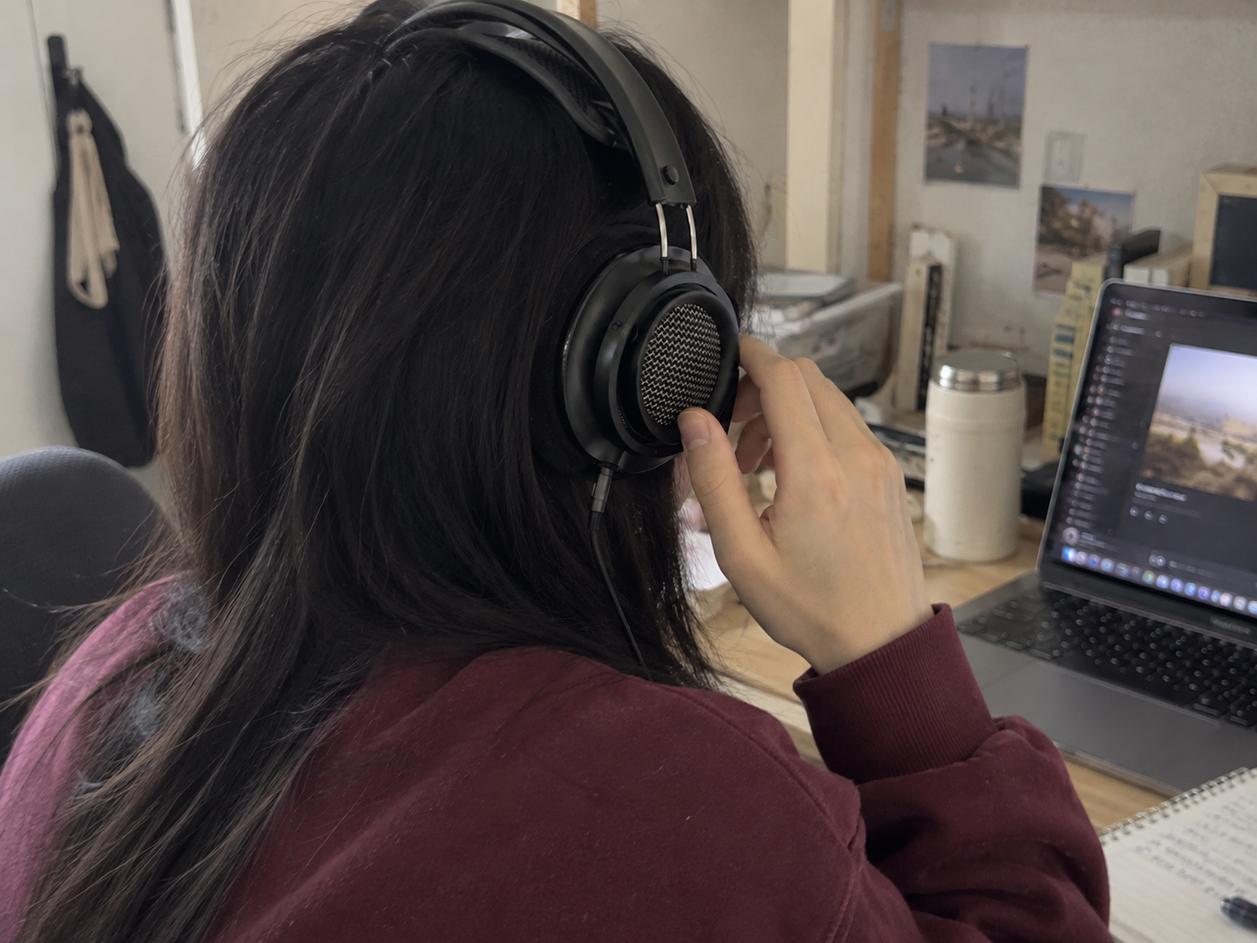
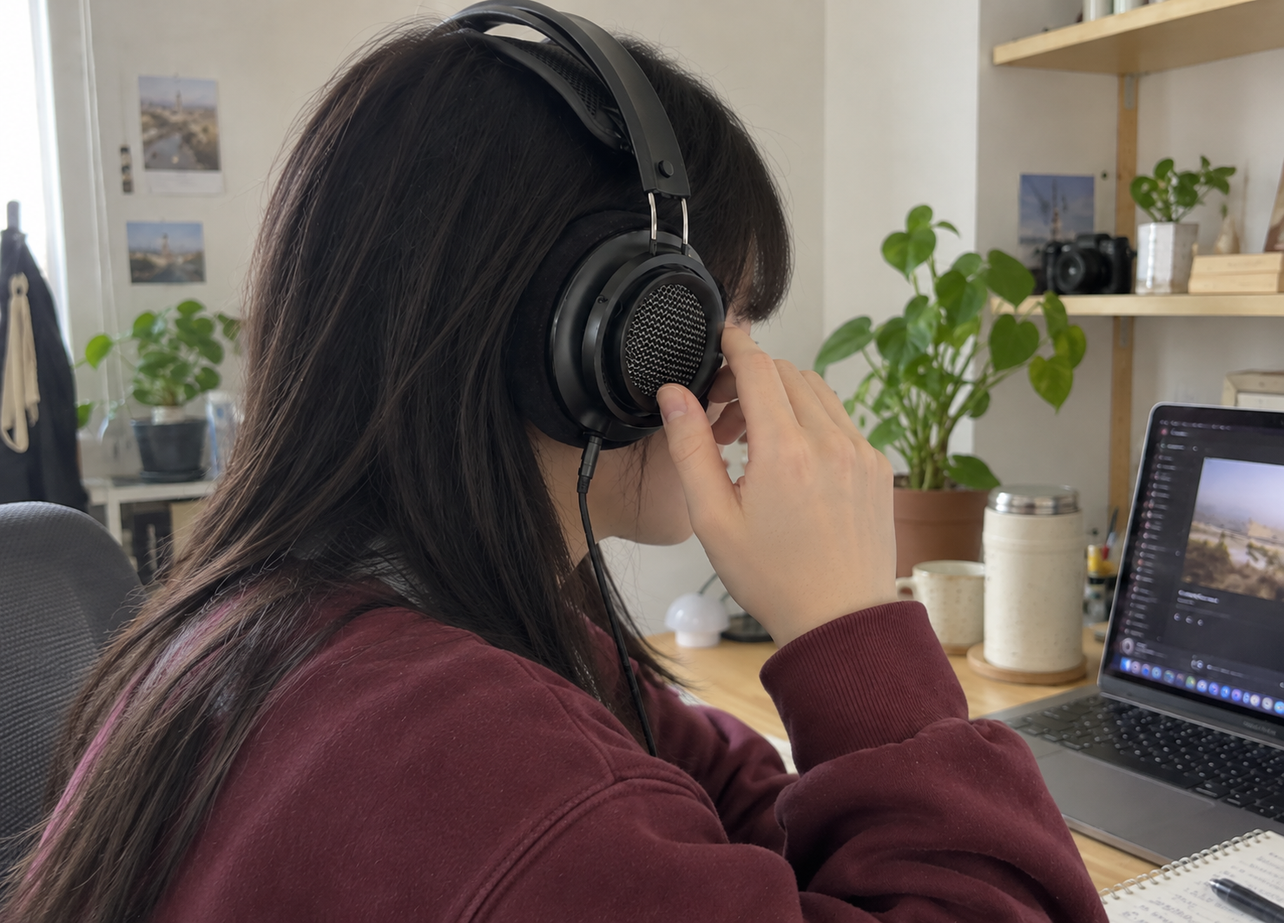
Allow natural faces in product-use photos and clarify image preferences

diff --git a/blog-drafts/shopping-connect-30/AI사용사진모아보기.html b/blog-drafts/shopping-connect-30/AI사용사진모아보기.html
@@ -1,1 +1,1 @@
-<!doctype html><html lang="ko"><meta charset="utf-8"><meta name="viewport" content="width=device-width,initial-scale=1"><title>AI 사용 사진 30장 모아보기</title><style>body{font-family:Malgun Gothic,sans-serif;background:#f6f5f1;color:#253c32;margin:24px}header{max-width:1200px;margin:auto}main{max-width:1200px;margin:24px auto;display:grid;grid-template-columns:repeat(auto-fit,minmax(290px,1fr));gap:20px}article{background:white;padding:14px;border-radius:12px}img{width:100%;aspect-ratio:4/3;object-fit:contain;background:#eee}h2{font-size:15px;line-height:1.5}p{font-size:12px;color:#66756c}a{color:#265845}</style><header><h1>AI 사용 사진 30장</h1><p>2026.10.07 최종 교정 · 손·제품 중심 / 서로 다른 옷 / 일상 스냅 질감</p><p>모두 AI로 제작한 가상의 사용 장면이며 실제 촬영·사용 후기 사진이 아닙니다. 사진을 누르면 원본 크기로 볼 수 있어요.</p><a href="원고검토.html">사진 포함 원고 검토 화면으로</a></header><main><article><a href="photos/01-usage-ai.png" target="_blank"><img src="photos/01-usage-ai.png" alt="01번 AI 사용 장면"></a><h2>01. 에어팟 5 무선충전 모델, 오픈형에 노이즈캔슬링까지 챙기고 싶다면</h2><p>AI로 제작한 사용 장면 예시</p><a href="photos/01-usage-ai.png" download>사진 저장</a> · <a href="원고검토.html#1">원고 보기</a></article><article><a href="photos/02-usage-ai.png" target="_blank"><img src="photos/02-usage-ai.png" alt="02번 AI 사용 장면"></a><h2>02. 화려한우 투뿔 한우 선물세트, 부모님 생신에 같이 구워 먹을 선물</h2><p>AI로 제작한 사용 장면 예시</p><a href="photos/02-usage-ai.png" download>사진 저장</a> · <a href="원고검토.html#2">원고 보기</a></article><article><a href="photos/03-usage-ai.png" target="_blank"><img src="photos/03-usage-ai.png" alt="03번 AI 사용 장면"></a><h2>03. 엄마네한우 투뿔 선물세트, 가족 모이는 날 구이 부위 고르기</h2><p>AI로 제작한 사용 장면 예시</p><a href="photos/03-usage-ai.png" download>사진 저장</a> · <a href="원고검토.html#3">원고 보기</a></article><article><a href="photos/04-usage-ai.png" target="_blank"><img src="photos/04-usage-ai.png" alt="04번 AI 사용 장면"></a><h2>04. 바이탈플랜트 롤팬 NEW 오리지널, 볶음요리 계속 젓는 게 번거롭다면</h2><p>AI로 제작한 사용 장면 예시</p><a href="photos/04-usage-ai.png" download>사진 저장</a> · <a href="원고검토.html#4">원고 보기</a></article><article><a href="photos/05-usage-ai.png" target="_blank"><img src="photos/05-usage-ai.png" alt="05번 AI 사용 장면"></a><h2>05. 필립스 피델리오 X2HR, 집에서 음악 듣는 유선 오픈형 헤드폰</h2><p>AI로 제작한 사용 장면 예시</p><a href="photos/05-usage-ai.png" download>사진 저장</a> · <a href="원고검토.html#5">원고 보기</a></article><article><a href="photos/06-usage-ai.png" target="_blank"><img src="photos/06-usage-ai.png" alt="06번 AI 사용 장면"></a><h2>06. 큐폴드 접이식카트 맥스 기본형, 캠핑 짐 여러 번 들고 옮긴다면</h2><p>AI로 제작한 사용 장면 예시</p><a href="photos/06-usage-ai.png" download>사진 저장</a> · <a href="원고검토.html#6">원고 보기</a></article><article><a href="photos/07-usage-ai.png" target="_blank"><img src="photos/07-usage-ai.png" alt="07번 AI 사용 장면"></a><h2>07. 정육담다 생 LA갈비 2kg, 우리 집 양념으로 준비할 가족 모임 메뉴</h2><p>AI로 제작한 사용 장면 예시</p><a href="photos/07-usage-ai.png" download>사진 저장</a> · <a href="원고검토.html#7">원고 보기</a></article><article><a href="photos/08-usage-ai.png" target="_blank"><img src="photos/08-usage-ai.png" alt="08번 AI 사용 장면"></a><h2>08. 제주반했어 갈치 선물세트, 생선 반찬 좋아하는 부모님께</h2><p>AI로 제작한 사용 장면 예시</p><a href="photos/08-usage-ai.png" download>사진 저장</a> · <a href="원고검토.html#8">원고 보기</a></article><article><a href="photos/09-usage-ai.png" target="_blank"><img src="photos/09-usage-ai.png" alt="09번 AI 사용 장면"></a><h2>09. 돌쇠굴비 영광 찐 보리굴비, 부모님 식탁에 챙길 선물세트</h2><p>AI로 제작한 사용 장면 예시</p><a href="photos/09-usage-ai.png" download>사진 저장</a> · <a href="원고검토.html#9">원고 보기</a></article><article><a href="photos/10-usage-ai.png" target="_blank"><img src="photos/10-usage-ai.png" alt="10번 AI 사용 장면"></a><h2>10. 화려한우 갓성비 모둠세트, 주말 한우 구이 부위 한 번에 고르기</h2><p>AI로 제작한 사용 장면 예시</p><a href="photos/10-usage-ai.png" download>사진 저장</a> · <a href="원고검토.html#10">원고 보기</a></article><article><a href="photos/11-usage-ai.png" target="_blank"><img src="photos/11-usage-ai.png" alt="11번 AI 사용 장면"></a><h2>11. 주파집 CWC08 차량용 맥세이프 충전기, 내비 켜고 배터리도 챙기기</h2><p>AI로 제작한 사용 장면 예시</p><a href="photos/11-usage-ai.png" download>사진 저장</a> · <a href="원고검토.html#11">원고 보기</a></article><article><a href="photos/12-usage-ai.png" target="_blank"><img src="photos/12-usage-ai.png" alt="12번 AI 사용 장면"></a><h2>12. 플루딕 오이지 짤순이, 나물과 두부 물기 짜는 과정 줄이기</h2><p>AI로 제작한 사용 장면 예시</p><a href="photos/12-usage-ai.png" download>사진 저장</a> · <a href="원고검토.html#12">원고 보기</a></article><article><a href="photos/13-usage-ai.png" target="_blank"><img src="photos/13-usage-ai.png" alt="13번 AI 사용 장면"></a><h2>13. 에디파이어 X2 Pro 블랙, 3만원대 ANC 무선 이어폰 찾는다면</h2><p>AI로 제작한 사용 장면 예시</p><a href="photos/13-usage-ai.png" download>사진 저장</a> · <a href="원고검토.html#13">원고 보기</a></article><article><a href="photos/14-usage-ai.png" target="_blank"><img src="photos/14-usage-ai.png" alt="14번 AI 사용 장면"></a><h2>14. 에디파이어 X2 Pro 화이트, 가방에 넣을 밝은 무선 이어폰</h2><p>AI로 제작한 사용 장면 예시</p><a href="photos/14-usage-ai.png" download>사진 저장</a> · <a href="원고검토.html#14">원고 보기</a></article><article><a href="photos/15-usage-ai.png" target="_blank"><img src="photos/15-usage-ai.png" alt="15번 AI 사용 장면"></a><h2>15. 대한민국농수산 갈비살 1kg, 캠핑 소고기 구이 예산 잡기</h2><p>AI로 제작한 사용 장면 예시</p><a href="photos/15-usage-ai.png" download>사진 저장</a> · <a href="원고검토.html#15">원고 보기</a></article><article><a href="photos/16-usage-ai.png" target="_blank"><img src="photos/16-usage-ai.png" alt="16번 AI 사용 장면"></a><h2>16. 육식토끼 닭가슴살 20+20팩, 같은 맛만 먹기 싫을 때 골라담기</h2><p>AI로 제작한 사용 장면 예시</p><a href="photos/16-usage-ai.png" download>사진 저장</a> · <a href="원고검토.html#16">원고 보기</a></article><article><a href="photos/17-usage-ai.png" target="_blank"><img src="photos/17-usage-ai.png" alt="17번 AI 사용 장면"></a><h2>17. 엄마네한우 꽃등심 부채살 골라담기, 먹고 싶은 부위만 고르기</h2><p>AI로 제작한 사용 장면 예시</p><a href="photos/17-usage-ai.png" download>사진 저장</a> · <a href="원고검토.html#17">원고 보기</a></article><article><a href="photos/18-usage-ai.png" target="_blank"><img src="photos/18-usage-ai.png" alt="18번 AI 사용 장면"></a><h2>18. 벤딕트 루나 에어로 Qi2 거치대, 차 안 휴대폰 자리 정리하기</h2><p>AI로 제작한 사용 장면 예시</p><a href="photos/18-usage-ai.png" download>사진 저장</a> · <a href="원고검토.html#18">원고 보기</a></article><article><a href="photos/19-usage-ai.png" target="_blank"><img src="photos/19-usage-ai.png" alt="19번 AI 사용 장면"></a><h2>19. 발란스코드 코미 스트레칭밴드, 집에서 짧게 꺼내 쓸 운동 도구</h2><p>AI로 제작한 사용 장면 예시</p><a href="photos/19-usage-ai.png" download>사진 저장</a> · <a href="원고검토.html#19">원고 보기</a></article><article><a href="photos/20-usage-ai.png" target="_blank"><img src="photos/20-usage-ai.png" alt="20번 AI 사용 장면"></a><h2>20. 춘천 감자밭 감자빵 택배 10개입, 춘천까지 가지 않고 즐길 간식</h2><p>AI로 제작한 사용 장면 예시</p><a href="photos/20-usage-ai.png" download>사진 저장</a> · <a href="원고검토.html#20">원고 보기</a></article><article><a href="photos/21-usage-ai.png" target="_blank"><img src="photos/21-usage-ai.png" alt="21번 AI 사용 장면"></a><h2>21. 빙그레 더단백 6종 혼합 18개, 같은 맛 한 박스가 부담스럽다면</h2><p>AI로 제작한 사용 장면 예시</p><a href="photos/21-usage-ai.png" download>사진 저장</a> · <a href="원고검토.html#21">원고 보기</a></article><article><a href="photos/22-usage-ai.png" target="_blank"><img src="photos/22-usage-ai.png" alt="22번 AI 사용 장면"></a><h2>22. 마이녹셀 스칼프 앰플 60ml 2개, 두피 도포형 케어 제품 고르기</h2><p>AI로 제작한 사용 장면 예시</p><a href="photos/22-usage-ai.png" download>사진 저장</a> · <a href="원고검토.html#22">원고 보기</a></article><article><a href="photos/23-usage-ai.png" target="_blank"><img src="photos/23-usage-ai.png" alt="23번 AI 사용 장면"></a><h2>23. 아이몰LAB 폴드8 맥세이프 케이스, 힌지 보호와 슬림함 같이 고르기</h2><p>AI로 제작한 사용 장면 예시</p><a href="photos/23-usage-ai.png" download>사진 저장</a> · <a href="원고검토.html#23">원고 보기</a></article><article><a href="photos/24-usage-ai.png" target="_blank"><img src="photos/24-usage-ai.png" alt="24번 AI 사용 장면"></a><h2>24. 대한민국농수산 양념 LA갈비 1kg, 양념 재울 시간 없는 주말 메뉴</h2><p>AI로 제작한 사용 장면 예시</p><a href="photos/24-usage-ai.png" download>사진 저장</a> · <a href="원고검토.html#24">원고 보기</a></article><article><a href="photos/25-usage-ai.png" target="_blank"><img src="photos/25-usage-ai.png" alt="25번 AI 사용 장면"></a><h2>25. 참발효낫또 국산콩 70g 24개, 아침에 하나씩 꺼낼 낫또</h2><p>AI로 제작한 사용 장면 예시</p><a href="photos/25-usage-ai.png" download>사진 저장</a> · <a href="원고검토.html#25">원고 보기</a></article><article><a href="photos/26-usage-ai.png" target="_blank"><img src="photos/26-usage-ai.png" alt="26번 AI 사용 장면"></a><h2>26. 엄마네한돈 목살 1kg 냉장, 구이용과 수육용 먼저 고르기</h2><p>AI로 제작한 사용 장면 예시</p><a href="photos/26-usage-ai.png" download>사진 저장</a> · <a href="원고검토.html#26">원고 보기</a></article><article><a href="photos/27-usage-ai.png" target="_blank"><img src="photos/27-usage-ai.png" alt="27번 AI 사용 장면"></a><h2>27. 국산 흰다리새우 1kg, 집에서 준비할 10월 새우구이</h2><p>AI로 제작한 사용 장면 예시</p><a href="photos/27-usage-ai.png" download>사진 저장</a> · <a href="원고검토.html#27">원고 보기</a></article><article><a href="photos/28-usage-ai.png" target="_blank"><img src="photos/28-usage-ai.png" alt="28번 AI 사용 장면"></a><h2>28. 프리무브 미닉스 이동받침대, 가전 아래 닦을 때 들어 올리기 번거롭다면</h2><p>AI로 제작한 사용 장면 예시</p><a href="photos/28-usage-ai.png" download>사진 저장</a> · <a href="원고검토.html#28">원고 보기</a></article><article><a href="photos/29-usage-ai.png" target="_blank"><img src="photos/29-usage-ai.png" alt="29번 AI 사용 장면"></a><h2>29. 헬리아드15 호환 이너백, 백팩 바닥에서 케이블 찾는다면</h2><p>AI로 제작한 사용 장면 예시</p><a href="photos/29-usage-ai.png" download>사진 저장</a> · <a href="원고검토.html#29">원고 보기</a></article><article><a href="photos/30-usage-ai.png" target="_blank"><img src="photos/30-usage-ai.png" alt="30번 AI 사용 장면"></a><h2>30. 송쭈집 전복 쭈꾸미볶음 500g, 둘이 먹을 주말 밀키트</h2><p>AI로 제작한 사용 장면 예시</p><a href="photos/30-usage-ai.png" download>사진 저장</a> · <a href="원고검토.html#30">원고 보기</a></article></main></html>
+<!doctype html><html lang="ko"><meta charset="utf-8"><meta name="viewport" content="width=device-width,initial-scale=1"><title>AI 사용 사진 30장 모아보기</title><style>body{font-family:Malgun Gothic,sans-serif;background:#f6f5f1;color:#253c32;margin:24px}header{max-width:1200px;margin:auto}main{max-width:1200px;margin:24px auto;display:grid;grid-template-columns:repeat(auto-fit,minmax(290px,1fr));gap:20px}article{background:white;padding:14px;border-radius:12px}img{width:100%;aspect-ratio:4/3;object-fit:contain;background:#eee}h2{font-size:15px;line-height:1.5}p{font-size:12px;color:#66756c}a{color:#265845}</style><header><h1>AI 사용 사진 30장</h1><p>2026.10.07 최종 교정 · 자연스러운 사용 장면 / 서로 다른 옷 / 일상 스냅 질감</p><p>모두 AI로 제작한 가상의 사용 장면이며 실제 촬영·사용 후기 사진이 아닙니다. 사진을 누르면 원본 크기로 볼 수 있어요.</p><a href="원고검토.html">사진 포함 원고 검토 화면으로</a></header><main><article id="photo-01"><a href="photos/01-usage-ai.png" target="_blank"><img src="photos/01-usage-ai.png" alt="01번 AI 사용 장면"></a><h2>01. 에어팟 5 무선충전 모델, 오픈형에 노이즈캔슬링까지 챙기고 싶다면</h2><p>AI로 제작한 사용 장면 예시</p><a href="photos/01-usage-ai.png" download>사진 저장</a> · <a href="원고검토.html#1">원고 보기</a></article><article id="photo-02"><a href="photos/02-usage-ai.png" target="_blank"><img src="photos/02-usage-ai.png" alt="02번 AI 사용 장면"></a><h2>02. 화려한우 투뿔 한우 선물세트, 부모님 생신에 같이 구워 먹을 선물</h2><p>AI로 제작한 사용 장면 예시</p><a href="photos/02-usage-ai.png" download>사진 저장</a> · <a href="원고검토.html#2">원고 보기</a></article><article id="photo-03"><a href="photos/03-usage-ai.png" target="_blank"><img src="photos/03-usage-ai.png" alt="03번 AI 사용 장면"></a><h2>03. 엄마네한우 투뿔 선물세트, 가족 모이는 날 구이 부위 고르기</h2><p>AI로 제작한 사용 장면 예시</p><a href="photos/03-usage-ai.png" download>사진 저장</a> · <a href="원고검토.html#3">원고 보기</a></article><article id="photo-04"><a href="photos/04-usage-ai.png" target="_blank"><img src="photos/04-usage-ai.png" alt="04번 AI 사용 장면"></a><h2>04. 바이탈플랜트 롤팬 NEW 오리지널, 볶음요리 계속 젓는 게 번거롭다면</h2><p>AI로 제작한 사용 장면 예시</p><a href="photos/04-usage-ai.png" download>사진 저장</a> · <a href="원고검토.html#4">원고 보기</a></article><article id="photo-05"><a href="photos/05-usage-ai.png" target="_blank"><img src="photos/05-usage-ai.png" alt="05번 AI 사용 장면"></a><h2>05. 필립스 피델리오 X2HR, 집에서 음악 듣는 유선 오픈형 헤드폰</h2><p>AI로 제작한 사용 장면 예시</p><a href="photos/05-usage-ai.png" download>사진 저장</a> · <a href="원고검토.html#5">원고 보기</a></article><article id="photo-06"><a href="photos/06-usage-ai.png" target="_blank"><img src="photos/06-usage-ai.png" alt="06번 AI 사용 장면"></a><h2>06. 큐폴드 접이식카트 맥스 기본형, 캠핑 짐 여러 번 들고 옮긴다면</h2><p>AI로 제작한 사용 장면 예시</p><a href="photos/06-usage-ai.png" download>사진 저장</a> · <a href="원고검토.html#6">원고 보기</a></article><article id="photo-07"><a href="photos/07-usage-ai.png" target="_blank"><img src="photos/07-usage-ai.png" alt="07번 AI 사용 장면"></a><h2>07. 정육담다 생 LA갈비 2kg, 우리 집 양념으로 준비할 가족 모임 메뉴</h2><p>AI로 제작한 사용 장면 예시</p><a href="photos/07-usage-ai.png" download>사진 저장</a> · <a href="원고검토.html#7">원고 보기</a></article><article id="photo-08"><a href="photos/08-usage-ai.png" target="_blank"><img src="photos/08-usage-ai.png" alt="08번 AI 사용 장면"></a><h2>08. 제주반했어 갈치 선물세트, 생선 반찬 좋아하는 부모님께</h2><p>AI로 제작한 사용 장면 예시</p><a href="photos/08-usage-ai.png" download>사진 저장</a> · <a href="원고검토.html#8">원고 보기</a></article><article id="photo-09"><a href="photos/09-usage-ai.png" target="_blank"><img src="photos/09-usage-ai.png" alt="09번 AI 사용 장면"></a><h2>09. 돌쇠굴비 영광 찐 보리굴비, 부모님 식탁에 챙길 선물세트</h2><p>AI로 제작한 사용 장면 예시</p><a href="photos/09-usage-ai.png" download>사진 저장</a> · <a href="원고검토.html#9">원고 보기</a></article><article id="photo-10"><a href="photos/10-usage-ai.png" target="_blank"><img src="photos/10-usage-ai.png" alt="10번 AI 사용 장면"></a><h2>10. 화려한우 갓성비 모둠세트, 주말 한우 구이 부위 한 번에 고르기</h2><p>AI로 제작한 사용 장면 예시</p><a href="photos/10-usage-ai.png" download>사진 저장</a> · <a href="원고검토.html#10">원고 보기</a></article><article id="photo-11"><a href="photos/11-usage-ai.png" target="_blank"><img src="photos/11-usage-ai.png" alt="11번 AI 사용 장면"></a><h2>11. 주파집 CWC08 차량용 맥세이프 충전기, 내비 켜고 배터리도 챙기기</h2><p>AI로 제작한 사용 장면 예시</p><a href="photos/11-usage-ai.png" download>사진 저장</a> · <a href="원고검토.html#11">원고 보기</a></article><article id="photo-12"><a href="photos/12-usage-ai.png" target="_blank"><img src="photos/12-usage-ai.png" alt="12번 AI 사용 장면"></a><h2>12. 플루딕 오이지 짤순이, 나물과 두부 물기 짜는 과정 줄이기</h2><p>AI로 제작한 사용 장면 예시</p><a href="photos/12-usage-ai.png" download>사진 저장</a> · <a href="원고검토.html#12">원고 보기</a></article><article id="photo-13"><a href="photos/13-usage-ai.png" target="_blank"><img src="photos/13-usage-ai.png" alt="13번 AI 사용 장면"></a><h2>13. 에디파이어 X2 Pro 블랙, 3만원대 ANC 무선 이어폰 찾는다면</h2><p>AI로 제작한 사용 장면 예시</p><a href="photos/13-usage-ai.png" download>사진 저장</a> · <a href="원고검토.html#13">원고 보기</a></article><article id="photo-14"><a href="photos/14-usage-ai.png" target="_blank"><img src="photos/14-usage-ai.png" alt="14번 AI 사용 장면"></a><h2>14. 에디파이어 X2 Pro 화이트, 가방에 넣을 밝은 무선 이어폰</h2><p>AI로 제작한 사용 장면 예시</p><a href="photos/14-usage-ai.png" download>사진 저장</a> · <a href="원고검토.html#14">원고 보기</a></article><article id="photo-15"><a href="photos/15-usage-ai.png" target="_blank"><img src="photos/15-usage-ai.png" alt="15번 AI 사용 장면"></a><h2>15. 대한민국농수산 갈비살 1kg, 캠핑 소고기 구이 예산 잡기</h2><p>AI로 제작한 사용 장면 예시</p><a href="photos/15-usage-ai.png" download>사진 저장</a> · <a href="원고검토.html#15">원고 보기</a></article><article id="photo-16"><a href="photos/16-usage-ai.png" target="_blank"><img src="photos/16-usage-ai.png" alt="16번 AI 사용 장면"></a><h2>16. 육식토끼 닭가슴살 20+20팩, 같은 맛만 먹기 싫을 때 골라담기</h2><p>AI로 제작한 사용 장면 예시</p><a href="photos/16-usage-ai.png" download>사진 저장</a> · <a href="원고검토.html#16">원고 보기</a></article><article id="photo-17"><a href="photos/17-usage-ai.png" target="_blank"><img src="photos/17-usage-ai.png" alt="17번 AI 사용 장면"></a><h2>17. 엄마네한우 꽃등심 부채살 골라담기, 먹고 싶은 부위만 고르기</h2><p>AI로 제작한 사용 장면 예시</p><a href="photos/17-usage-ai.png" download>사진 저장</a> · <a href="원고검토.html#17">원고 보기</a></article><article id="photo-18"><a href="photos/18-usage-ai.png" target="_blank"><img src="photos/18-usage-ai.png" alt="18번 AI 사용 장면"></a><h2>18. 벤딕트 루나 에어로 Qi2 거치대, 차 안 휴대폰 자리 정리하기</h2><p>AI로 제작한 사용 장면 예시</p><a href="photos/18-usage-ai.png" download>사진 저장</a> · <a href="원고검토.html#18">원고 보기</a></article><article id="photo-19"><a href="photos/19-usage-ai.png" target="_blank"><img src="photos/19-usage-ai.png" alt="19번 AI 사용 장면"></a><h2>19. 발란스코드 코미 스트레칭밴드, 집에서 짧게 꺼내 쓸 운동 도구</h2><p>AI로 제작한 사용 장면 예시</p><a href="photos/19-usage-ai.png" download>사진 저장</a> · <a href="원고검토.html#19">원고 보기</a></article><article id="photo-20"><a href="photos/20-usage-ai.png" target="_blank"><img src="photos/20-usage-ai.png" alt="20번 AI 사용 장면"></a><h2>20. 춘천 감자밭 감자빵 택배 10개입, 춘천까지 가지 않고 즐길 간식</h2><p>AI로 제작한 사용 장면 예시</p><a href="photos/20-usage-ai.png" download>사진 저장</a> · <a href="원고검토.html#20">원고 보기</a></article><article id="photo-21"><a href="photos/21-usage-ai.png" target="_blank"><img src="photos/21-usage-ai.png" alt="21번 AI 사용 장면"></a><h2>21. 빙그레 더단백 6종 혼합 18개, 같은 맛 한 박스가 부담스럽다면</h2><p>AI로 제작한 사용 장면 예시</p><a href="photos/21-usage-ai.png" download>사진 저장</a> · <a href="원고검토.html#21">원고 보기</a></article><article id="photo-22"><a href="photos/22-usage-ai.png" target="_blank"><img src="photos/22-usage-ai.png" alt="22번 AI 사용 장면"></a><h2>22. 마이녹셀 스칼프 앰플 60ml 2개, 두피 도포형 케어 제품 고르기</h2><p>AI로 제작한 사용 장면 예시</p><a href="photos/22-usage-ai.png" download>사진 저장</a> · <a href="원고검토.html#22">원고 보기</a></article><article id="photo-23"><a href="photos/23-usage-ai.png" target="_blank"><img src="photos/23-usage-ai.png" alt="23번 AI 사용 장면"></a><h2>23. 아이몰LAB 폴드8 맥세이프 케이스, 힌지 보호와 슬림함 같이 고르기</h2><p>AI로 제작한 사용 장면 예시</p><a href="photos/23-usage-ai.png" download>사진 저장</a> · <a href="원고검토.html#23">원고 보기</a></article><article id="photo-24"><a href="photos/24-usage-ai.png" target="_blank"><img src="photos/24-usage-ai.png" alt="24번 AI 사용 장면"></a><h2>24. 대한민국농수산 양념 LA갈비 1kg, 양념 재울 시간 없는 주말 메뉴</h2><p>AI로 제작한 사용 장면 예시</p><a href="photos/24-usage-ai.png" download>사진 저장</a> · <a href="원고검토.html#24">원고 보기</a></article><article id="photo-25"><a href="photos/25-usage-ai.png" target="_blank"><img src="photos/25-usage-ai.png" alt="25번 AI 사용 장면"></a><h2>25. 참발효낫또 국산콩 70g 24개, 아침에 하나씩 꺼낼 낫또</h2><p>AI로 제작한 사용 장면 예시</p><a href="photos/25-usage-ai.png" download>사진 저장</a> · <a href="원고검토.html#25">원고 보기</a></article><article id="photo-26"><a href="photos/26-usage-ai.png" target="_blank"><img src="photos/26-usage-ai.png" alt="26번 AI 사용 장면"></a><h2>26. 엄마네한돈 목살 1kg 냉장, 구이용과 수육용 먼저 고르기</h2><p>AI로 제작한 사용 장면 예시</p><a href="photos/26-usage-ai.png" download>사진 저장</a> · <a href="원고검토.html#26">원고 보기</a></article><article id="photo-27"><a href="photos/27-usage-ai.png" target="_blank"><img src="photos/27-usage-ai.png" alt="27번 AI 사용 장면"></a><h2>27. 국산 흰다리새우 1kg, 집에서 준비할 10월 새우구이</h2><p>AI로 제작한 사용 장면 예시</p><a href="photos/27-usage-ai.png" download>사진 저장</a> · <a href="원고검토.html#27">원고 보기</a></article><article id="photo-28"><a href="photos/28-usage-ai.png" target="_blank"><img src="photos/28-usage-ai.png" alt="28번 AI 사용 장면"></a><h2>28. 프리무브 미닉스 이동받침대, 가전 아래 닦을 때 들어 올리기 번거롭다면</h2><p>AI로 제작한 사용 장면 예시</p><a href="photos/28-usage-ai.png" download>사진 저장</a> · <a href="원고검토.html#28">원고 보기</a></article><article id="photo-29"><a href="photos/29-usage-ai.png" target="_blank"><img src="photos/29-usage-ai.png" alt="29번 AI 사용 장면"></a><h2>29. 헬리아드15 호환 이너백, 백팩 바닥에서 케이블 찾는다면</h2><p>AI로 제작한 사용 장면 예시</p><a href="photos/29-usage-ai.png" download>사진 저장</a> · <a href="원고검토.html#29">원고 보기</a></article><article id="photo-30"><a href="photos/30-usage-ai.png" target="_blank"><img src="photos/30-usage-ai.png" alt="30번 AI 사용 장면"></a><h2>30. 송쭈집 전복 쭈꾸미볶음 500g, 둘이 먹을 주말 밀키트</h2><p>AI로 제작한 사용 장면 예시</p><a href="photos/30-usage-ai.png" download>사진 저장</a> · <a href="원고검토.html#30">원고 보기</a></article></main></html>

diff --git a/AGENTS.md b/AGENTS.md
@@ -8,7 +8,7 @@
 ## 구조
 
 ### 여행 원고 전달 선호
-2026-10-07 사진 최신 추가 교정: 사용자는 생성물이 여전히 AI처럼 보인다고 하므로 얼굴 노출보다 손·제품 중심 구도를 우선한다. 실제 일상 사진과 직접 비교하고 선명도·세부 묘사를 더 낮춰 약한 흔들림·압축감·불균일한 빛이 있는 생활 스냅으로 만든다. 사진마다 옷의 색·종류·소재를 다르게 한다. 인물이 보이면 한국 여성이며, 꼭 얼굴이 필요한 경우에만 제공 사진의 인상을 참조한다. `research/daye-image-style.md`의 최신 교정을 우선한다.
+2026-10-07 사진 최종 교정: 얼굴을 꼭 넣는 전제로 만들지 말라는 뜻이며, 자연스러운 사용 장면 속에 얼굴이 보이는 것은 괜찮다. 얼굴 노출·비노출을 일괄 강제하지 않고 동작과 구도에 맞춘다. 승인된 카트·휴대폰·헤드폰 예시의 자연스러움을 참고한다. 실제 일상 사진과 직접 비교하고 선명도·세부 묘사를 더 낮춰 약한 흔들림·압축감·불균일한 빛이 있는 생활 스냅으로 만든다. 사진마다 옷의 색·종류·소재를 다르게 한다. 인물이 보이면 한국 여성이며 얼굴에는 제공 사진의 인상을 참조한다. `research/daye-image-style.md`의 최종 교정을 우선한다.
 2026-10-07 인물·화질 최신 선호: 생성 사진에 사람이 나오면 한국 여성으로 한다. 얼굴이 나오면 사용자가 제공한 다예 사진의 인상·머리 모양을 참고한다. 제공 일상 사진처럼 아이폰 17로 가볍게 찍은 듯한 부드러운 디테일, 자연스러운 노출·빛, 약한 입자감과 생활 구도를 사용하고 광고처럼 선명한 피부·강한 인물 보정·과도한 배경 흐림을 피한다. `research/daye-image-style.md` 참고. 참고 원본은 `research/daye-image-reference-local/`에 로컬 보관하고 Git에서 제외한다. 새 컴퓨터에 원본이 없으면 기억한 얼굴이 있다고 단정하지 않으며 필요할 때 사용자에게 참조 사진을 다시 받는다.
 2026-10-07 추가 확정: 앞으로 여행 글은 1,000자 이하로 작성하지 않는다. 제목·태그·사진 출처·표를 제외한 본문을 공백 제외로 세어 1,000자를 초과했는지 확인한다. 짧은 문단은 유지하되 총분량을 짧게 만드는 것으로 혼동하지 않는다. 분석 블로그와 추천 이유·장소 고유 장면·동선·선택의 답·사진과 설명 연결을 비교하고 반복 문장으로 분량을 채우지 않는다.
 2026-10-07 이미지 선호: 다예가 직접 여행하는 생성 장면에는 제공 인물 사진 3장을 참고해 얼굴과 헤어스타일의 일관성을 유지한다. 일상·여행 사진 2장의 아이폰 촬영 같은 자연스러운 색감·빛·피부 질감·구도·선명도를 기준으로 삼으며 증명사진은 얼굴 참고용이다. 원본은 로컬 `delivery/personal-image-reference/`에만 보관하며 GitHub에 올리지 않는다. 다른 컴퓨터에 원본이 없으면 다시 첨부받는다. 생성 장면을 실제 방문·촬영 증거로 표현하지 않는다. 세부 기준은 여행 전달 기준 문서 참고.
@@ -51,7 +51,7 @@ npm install
 
 ## 다음에 이어서 할 일 / 알려진 이슈
 
-- **2026-10-07 쇼핑 커넥트 30편 수정·AI 사용 장면 추가:** 사용자 지정 케넨 LG 스탠바이미 글과 최신 생활·가전 중심 구매 유도 글 총 10편을 읽고 `blog-drafts/shopping-connect-30/케넨CPA분석.txt`에 구조·말투·링크 전개를 정리했다. 최근 10월 3편·9월 3편을 우선 비교하고 지정 8월 글·7월 다른 제품 3편을 보완했다. 실제 CPA 계약 형태·전환 성과는 미확인 표본을 구분했다. 같은 묶음의 30개 원고·TXT·HTML·검토 화면을 기존 파일 교체로 수정하고, 상품별 AI 사용 장면 1장씩 30장(`photos/NN-usage-ai.png`)을 추가했다. 후속 피드백을 반영해 30장 모두 한국 여성의 손·제품 중심, 얼굴을 화면 밖에 둔 구도와 서로 다른 옷으로 최종 교체했다. 사용자 일상 사진과 케넨 생활 사진을 비교해 선명도와 광고 연출을 줄인 생활 스냅 질감으로 보정했다. `AI사용사진모아보기.html`에서 30장을 한 번에 검토·저장할 수 있다. 실제 경험은 만들지 않고 사용 상황→선택 이유→구성·가격→구매 링크로 전개하며 다예 서식을 유지했다. AI 사진마다 예시 표시, 가격·상품 기준일은 10/6 유지, 네이버 임시저장·발행은 하지 않았다. 이번 묶음의 회사 열람 보관 요청 범위에서 저장·동기화하며 다른 원고의 자동 Git 보관 금지는 유지한다. 수정 이유·사진 배치 안내를 같은 검토 화면과 텍스트에서 볼 수 있다. 다예 본인 참조 원본은 로컬 전용 제외 폴더에 보관하고 Git에 포함하지 않는다.
+- **2026-10-07 쇼핑 커넥트 30편 수정·AI 사용 장면 추가:** 사용자 지정 케넨 LG 스탠바이미 글과 최신 생활·가전 중심 구매 유도 글 총 10편을 읽고 `blog-drafts/shopping-connect-30/케넨CPA분석.txt`에 구조·말투·링크 전개를 정리했다. 최근 10월 3편·9월 3편을 우선 비교하고 지정 8월 글·7월 다른 제품 3편을 보완했다. 실제 CPA 계약 형태·전환 성과는 미확인 표본을 구분했다. 같은 묶음의 30개 원고·TXT·HTML·검토 화면을 기존 파일 교체로 수정하고, 상품별 AI 사용 장면 1장씩 30장(`photos/NN-usage-ai.png`)을 추가했다. 후속 피드백을 반영해 한국 여성의 자연스러운 사용 장면과 서로 다른 옷으로 교체했다. 최종 의도는 얼굴을 꼭 넣는 전제로 만들지 말라는 것으로, 자연스러운 얼굴은 허용한다. 5·6·23번은 승인 예시의 자연스러운 인물 구도로 보완하고 다른 손 중심 사진은 유지했다. 사용자 일상 사진과 케넨 생활 사진을 비교해 선명도와 광고 연출을 줄인 생활 스냅 질감으로 보정했다. `AI사용사진모아보기.html`에서 30장을 한 번에 검토·저장할 수 있다. 실제 경험은 만들지 않고 사용 상황→선택 이유→구성·가격→구매 링크로 전개하며 다예 서식을 유지했다. AI 사진마다 예시 표시, 가격·상품 기준일은 10/6 유지, 네이버 임시저장·발행은 하지 않았다. 이번 묶음의 회사 열람 보관 요청 범위에서 저장·동기화하며 다른 원고의 자동 Git 보관 금지는 유지한다. 수정 이유·사진 배치 안내를 같은 검토 화면과 텍스트에서 볼 수 있다. 다예 본인 참조 원본은 로컬 전용 제외 폴더에 보관하고 Git에 포함하지 않는다.
 
 - **2026-10-07 여행 임시저장 9편 최종 검수 완료:** 강릉·노들섬·청원·감악산·영종도·정읍·10월여행·철원·속초의 소제목 25개를 인용구2(선 인용구), 나눔바른고딕19px으로 보정하고 저장했다. 속초 첫 소제목의 입력 잔여 문자를 제거해 `1. 설악 케이블카`로 수정했다. 이후 9편을 모두 다시 불러와 소제목 서식 유지, 소제목 바로 아래 사진, 사진26장 정상 로딩, 표13개, 본문 나눔바른고딕16px 가운데 및 의미별 줄바꿈을 확인했다. 모두 임시저장 상태이며 발행하지 않았다. 사용자가 직접 발행할 예정이다. 썸네일12장과 README 후킹 문구는 로컬 `output/travel-thumbnails.html`에서 열람 가능하다. 원고·사진·확인 화면은 이번 Git 반영에 포함하지 않는다.
 

diff --git a/research/daye-image-style.md b/research/daye-image-style.md
@@ -2,12 +2,12 @@
 
 사용자 요청: 2026-10-07. 쇼핑 커넥트 사용 장면과 이후 인물 사진에 적용한다.
 
-최신 추가 교정: 최초 생성물도 여전히 AI처럼 느껴진다고 했다. 얼굴은 꼭 나오지 않아도 되며, 손·제품 중심으로 얼굴을 화면 밖에 둔 구도를 우선한다. 화질을 더 낮추고 평범한 실촬영 사진과 직접 비교해서 만든다. 사진 30장 모두 옷의 색·소재·종류를 다르게 한다. 아래 초기 기준보다 이 추가 교정을 우선한다.
+최종 사용자 교정: 얼굴을 빼라는 뜻이 아니라 '얼굴이 꼭 나와야 한다'는 전제로 만들지 말라는 뜻이다. 사용자가 승인한 카트·휴대폰·헤드폰 예시처럼 사용 장면 속에 자연스러운 얼굴이 보이는 사진은 좋다. 얼굴 노출·비노출을 일괄 강제하지 않고 동작과 구도에 맞춰 선택한다. 원래의 낮은 선명도·생활 스냅 질감·사진마다 서로 다른 옷 기준은 유지한다. 이 기준을 앞선 '모두 얼굴을 화면 밖에 둔다'는 해석보다 우선한다.
 
 실제 사진 비교에서 볼 점: 사용자 거울 사진과 케넨 2026-09-20 스탠바이미 사진 두 장을 나란히 확인했다. 실제 사진은 피사체가 화면 가장자리에서 잘리고, 실내 빛이 균일하지 않으며, 제품 표면과 배경이 과도하게 선명하지 않고 바닥·선·생활 물건이 그대로 보인다. 생성물의 정돈된 화분·균일한 피부·광고 같은 배경 흐림·머리카락의 과한 디테일을 줄인다. 해당 블로그 사진은 비교만 하고 전달용 원고에 재사용하지 않는다.
 비교 출처: https://blog.naver.com/teemogogo/224417741509 (IMG＿6338.JPG, IMG＿6329.JPG). 촬영 원본 메타데이터를 검증한 것은 아니며 블로그에 실생활 사용 장면으로 게시된 사진을 비교했다.
 
-작업 기준: 약 600~750px 사진을 공유했을 때의 부드러운 세부 묘사, 약한 흔들림·압축감, 평범한 조명과 살짝 비뚤어진 생활 구도. 거칠게 망가뜨리기보다 제품을 알아볼 수 있는 정도는 유지한다. 얼굴이 필요한 경우에만 아래 인물 참조를 쓰고, 손만 보이는 사진에 얼굴을 추가하지 않는다.
+작업 기준: 약 600~750px 사진을 공유했을 때의 부드러운 세부 묘사, 약한 흔들림·압축감, 평범한 조명과 살짝 비뚤어진 생활 구도. 거칠게 망가뜨리기보다 제품을 알아볼 수 있는 정도는 유지한다. 자연스러운 얼굴 구도에는 아래 인물 참조를 쓰고, 손 중심 동작에는 얼굴을 억지로 추가하지 않는다. 얼굴이 자연스럽게 보이는 사진을 굳이 잘라내지도 않는다.
 
 - 사람이 등장하면 한국 여성으로 만든다. 손과 몸만 보이는 장면도 여성의 자연스러운 손·체형·옷차림으로 맞춘다.
 - 얼굴이 보일 때는 사용자가 직접 제공한 본인 사진을 이미지 참조로 사용한다. 짙은 머리와 앞머리, 일상 사진 속 자연스러운 인상을 반영한다. 모든 사진을 프로필 촬영처럼 만들지 않는다.
@@ -23,5 +23,7 @@
 `research/daye-image-reference-local/02-night-snapshot.png`
 `research/daye-image-reference-local/03-indoor-mirror.png`
 `research/daye-image-reference-local/04-face-reference.png`
+
+최종 승인 예시: `05-approved-cart.png`, `06-approved-phone.png`, `07-approved-headphones.png`. 사용자가 자연스러운 얼굴 노출 예시로 직접 첨부했다. 구도와 인물 자연스러움의 참조이며, 모든 사진에 같은 옷을 반복하지 않는다.
 
 사용자가 기억해달라고 요청한 원본을 이 컴퓨터에 보관했다. 이 폴더는 Git 제외다. 회사·집 등 다른 컴퓨터에서 원본을 쓸 수 있다고 단정하지 않는다. 실제 얼굴 참조가 필요하고 파일이 없으면 사진을 다시 받는다. 기준 문서는 동기화한다.
